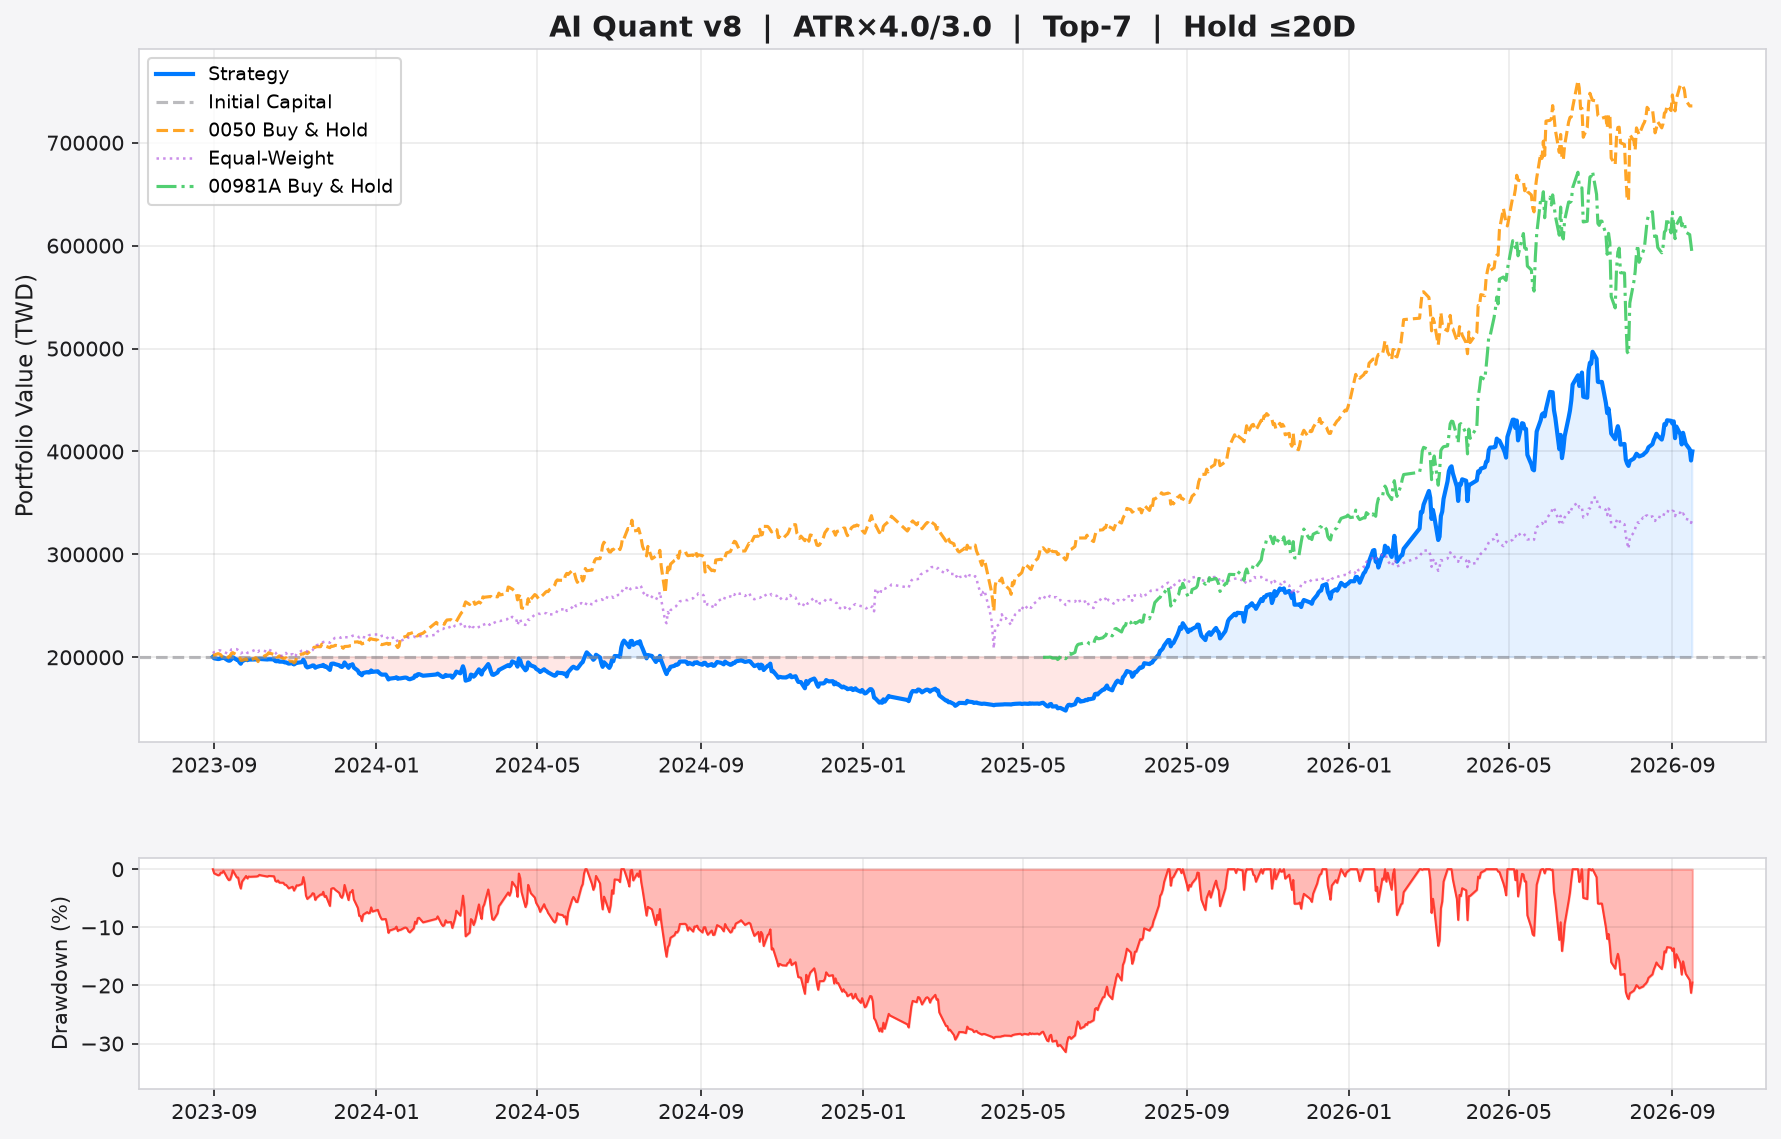
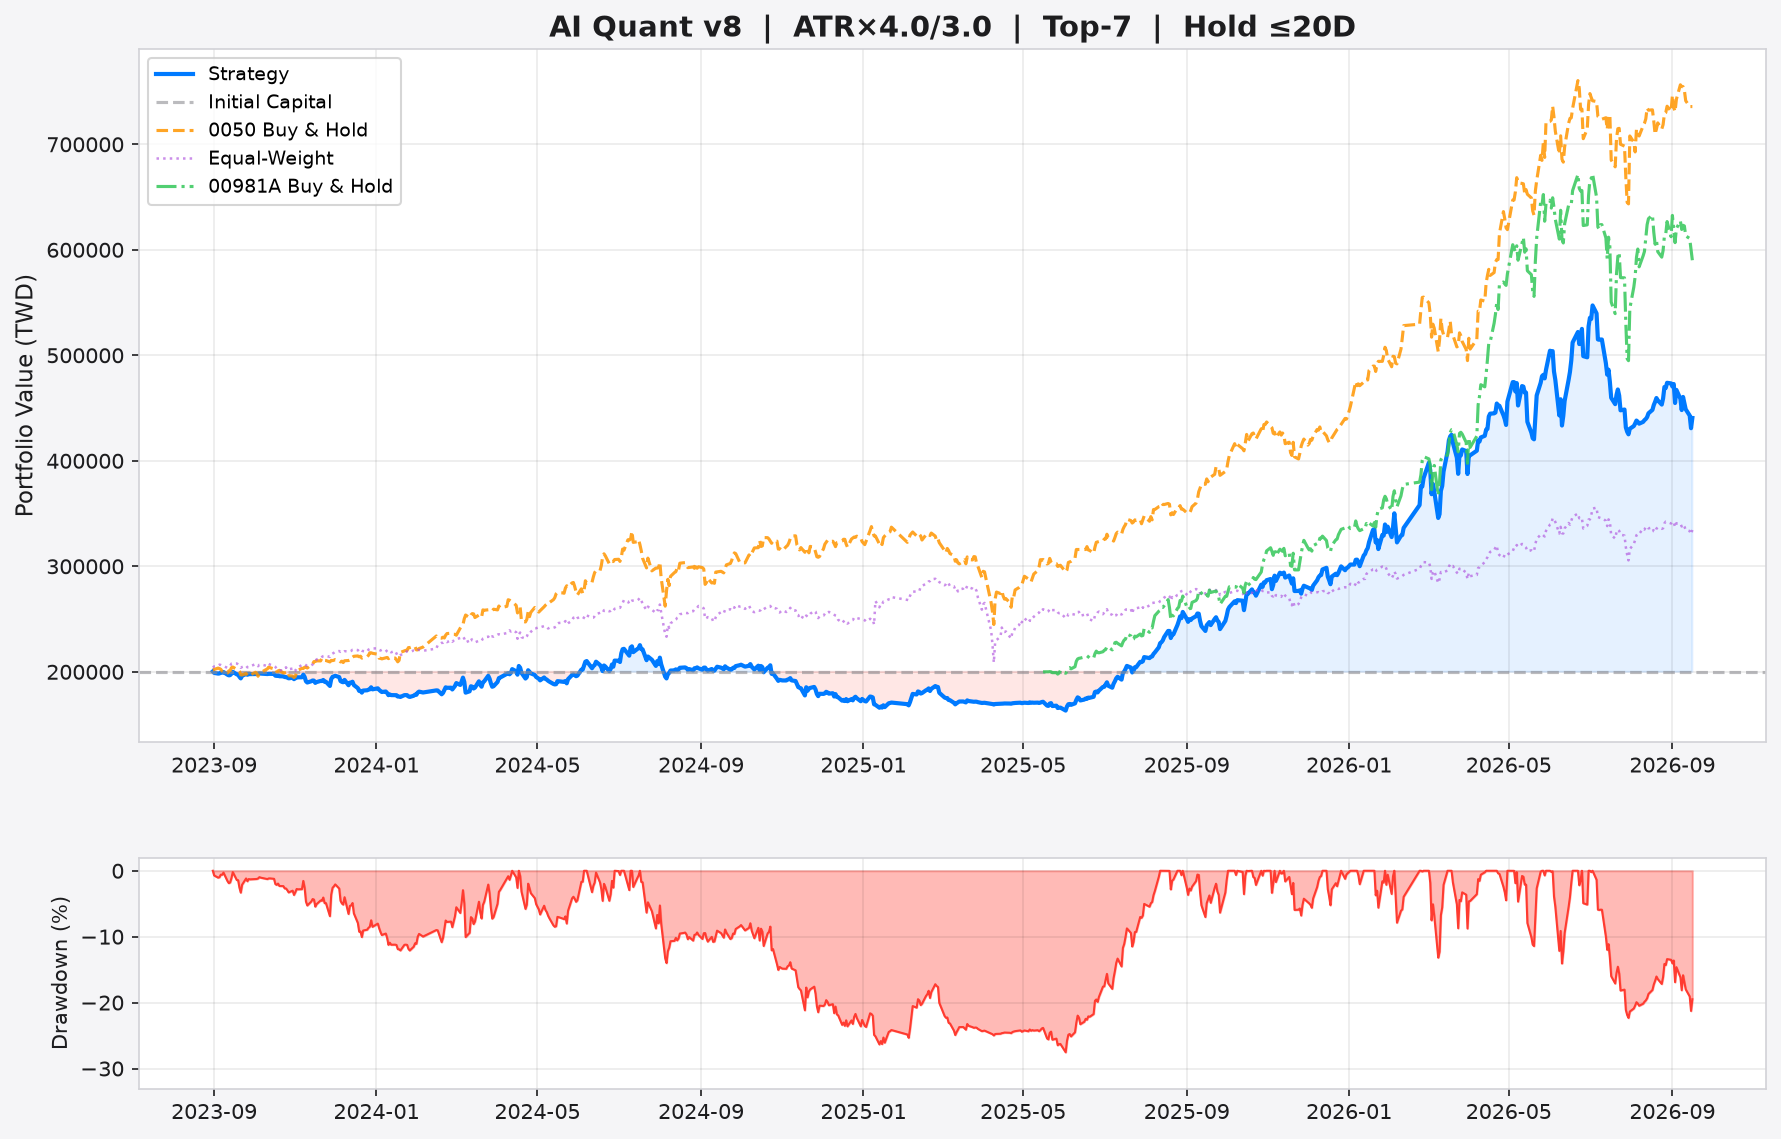
📊 AI Report v8.5 + Paper Trading (2026-09-16)

diff --git a/stock_report.html b/stock_report.html
@@ -303,47 +303,47 @@
     <div class="stats">
         <div class="stat-card">
             <div class="label">策略總報酬率</div>
-            <div class="value" style="color:#00ff00;">+100.0%</div>
+            <div class="value" style="color:#00ff00;">+120.3%</div>
         </div>
         <div class="stat-card">
             <div class="label">年化報酬率</div>
-            <div class="value" style="color:#00ff00;">+26.6%</div>
+            <div class="value" style="color:#00ff00;">+30.9%</div>
         </div>
         <div class="stat-card">
             <div class="label">年化波動率</div>
-            <div class="value">27.6%</div>
+            <div class="value">27.7%</div>
         </div>
         <div class="stat-card risk">
             <div class="label">Sharpe Ratio</div>
-            <div class="value" style="color:#00ff00;">0.99</div>
+            <div class="value" style="color:#00ff00;">1.11</div>
         </div>
         <div class="stat-card risk">
             <div class="label">Sortino Ratio</div>
-            <div class="value">1.34</div>
+            <div class="value">1.53</div>
         </div>
         <div class="stat-card risk">
             <div class="label">最大回撤</div>
-            <div class="value" style="color:#ff4444;">-31.4%</div>
+            <div class="value" style="color:#ff4444;">-27.5%</div>
         </div>
         <div class="stat-card risk">
             <div class="label">Calmar Ratio</div>
-            <div class="value">0.85</div>
+            <div class="value">1.12</div>
         </div>
         <div class="stat-card">
             <div class="label">完成交易數</div>
-            <div class="value">452</div>
+            <div class="value">453</div>
         </div>
         <div class="stat-card">
             <div class="label">勝率</div>
-            <div class="value" style="color:#00ff00;">50.0%</div>
+            <div class="value" style="color:#00ff00;">51.0%</div>
         </div>
         <div class="stat-card">
             <div class="label">Profit Factor</div>
-            <div class="value">1.28</div>
+            <div class="value">1.34</div>
         </div>
         <div class="stat-card">
             <div class="label">平均報酬/筆</div>
-            <div class="value">+1.72%</div>
+            <div class="value">+2.07%</div>
         </div>
         <div class="stat-card">
             <div class="label">平均持有天數</div>
@@ -473,7 +473,7 @@
         </div>
         <div class="stat-card" style="border-left-color:#ff4444">
             <div class="label">超額年化報酬 (α)</div>
-            <div class="value" style="color:#ff4444">-24.1%</div>
+            <div class="value" style="color:#ff4444">-19.9%</div>
         </div>
     </div>
 
@@ -533,21 +533,21 @@
         </div>
         <div class="stat-card">
             <div class="label">權益最高點</div>
-            <div class="value">496,903</div>
+            <div class="value">547,281</div>
         </div>
         <div class="stat-card">
             <div class="label">歷史回撤次數</div>
-            <div class="value">29</div>
+            <div class="value">32</div>
         </div>
     </div>
     <table>
         <thead><tr><th>#</th><th>開始日</th><th>恢復日</th><th>最大深度</th><th>持續天數</th></tr></thead>
         <tbody>
-<tr><td>#1</td><td>2024-07-18</td><td>2025-08-18</td><td style="color:#ff4444; font-weight:bold">-31.4%</td><td>396 天</td></tr>
+<tr><td>#1</td><td>2024-07-18</td><td>2025-08-12</td><td style="color:#ff4444; font-weight:bold">-27.5%</td><td>390 天</td></tr>
 <tr><td>#2</td><td>2026-07-06</td><td>2026-09-16</td><td style="color:#ff4444; font-weight:bold">-22.3%</td><td>72 天</td></tr>
 <tr><td>#3</td><td>2026-06-04</td><td>2026-06-18</td><td style="color:#ff4444; font-weight:bold">-14.1%</td><td>14 天</td></tr>
 <tr><td>#4</td><td>2026-03-03</td><td>2026-03-16</td><td style="color:#ff4444; font-weight:bold">-13.2%</td><td>13 天</td></tr>
-<tr><td>#5</td><td>2023-09-18</td><td>2024-06-06</td><td style="color:#ff4444; font-weight:bold">-11.5%</td><td>262 天</td></tr>
+<tr><td>#5</td><td>2023-09-18</td><td>2024-04-12</td><td style="color:#ff4444; font-weight:bold">-12.1%</td><td>207 天</td></tr>
 
         </tbody>
     </table>
@@ -562,11 +562,11 @@
         </div>
         <div class="stat-card">
             <div class="label">歷史平均 Sharpe</div>
-            <div class="value">0.92</div>
+            <div class="value">1.09</div>
         </div>
         <div class="stat-card risk">
             <div class="label">歷史最低 Sharpe</div>
-            <div class="value">-3.79</div>
+            <div class="value">-4.04</div>
         </div>
         <div class="stat-card">
             <div class="label">歷史最高 Sharpe</div>
@@ -596,9 +596,9 @@
     <table>
         <thead><tr><th>出場原因</th><th>次數</th><th>平均報酬</th></tr></thead>
         <tbody>
-<tr><td>⚪ 時間到期</td><td>173 筆</td><td style="color:#ff4444">-1.09%</td></tr>
-<tr><td>🟢 停利</td><td>153 筆</td><td style="color:#00ff00">+20.20%</td></tr>
-<tr><td>🔴 停損</td><td>126 筆</td><td style="color:#ff4444">-16.88%</td></tr>
+<tr><td>⚪ 時間到期</td><td>171 筆</td><td style="color:#ff4444">-1.40%</td></tr>
+<tr><td>🟢 停利</td><td>160 筆</td><td style="color:#00ff00">+20.33%</td></tr>
+<tr><td>🔴 停損</td><td>122 筆</td><td style="color:#ff4444">-17.00%</td></tr>
 
         </tbody>
     </table>
@@ -608,14 +608,14 @@
 
     <table>
         <thead><tr><th>報酬區間</th><th>筆數</th><th>佔比</th><th>分布</th></tr></thead>
-        <tbody><tr><td>< -15%</td><td>87</td><td>19.2%</td><td><div style="background:#ff4444; width:57.743362831858406%; height:14px; border-radius:3px; opacity:0.6"></div></td></tr>
-<tr><td>-15~-10%</td><td>59</td><td>13.1%</td><td><div style="background:#ff4444; width:39.15929203539824%; height:14px; border-radius:3px; opacity:0.6"></div></td></tr>
-<tr><td>-10~-5%</td><td>36</td><td>8.0%</td><td><div style="background:#ff4444; width:23.893805309734514%; height:14px; border-radius:3px; opacity:0.6"></div></td></tr>
-<tr><td>-5~0%</td><td>44</td><td>9.7%</td><td><div style="background:#ff4444; width:29.20353982300885%; height:14px; border-radius:3px; opacity:0.6"></div></td></tr>
-<tr><td>0~5%</td><td>30</td><td>6.6%</td><td><div style="background:#00ff00; width:19.911504424778762%; height:14px; border-radius:3px; opacity:0.6"></div></td></tr>
-<tr><td>5~10%</td><td>29</td><td>6.4%</td><td><div style="background:#00ff00; width:19.24778761061947%; height:14px; border-radius:3px; opacity:0.6"></div></td></tr>
-<tr><td>10~20%</td><td>92</td><td>20.4%</td><td><div style="background:#00ff00; width:61.061946902654874%; height:14px; border-radius:3px; opacity:0.6"></div></td></tr>
-<tr><td>> 20%</td><td>75</td><td>16.6%</td><td><div style="background:#00ff00; width:49.7787610619469%; height:14px; border-radius:3px; opacity:0.6"></div></td></tr>
+        <tbody><tr><td>< -15%</td><td>87</td><td>19.2%</td><td><div style="background:#ff4444; width:57.6158940397351%; height:14px; border-radius:3px; opacity:0.6"></div></td></tr>
+<tr><td>-15~-10%</td><td>57</td><td>12.6%</td><td><div style="background:#ff4444; width:37.748344370860934%; height:14px; border-radius:3px; opacity:0.6"></div></td></tr>
+<tr><td>-10~-5%</td><td>36</td><td>7.9%</td><td><div style="background:#ff4444; width:23.841059602649008%; height:14px; border-radius:3px; opacity:0.6"></div></td></tr>
+<tr><td>-5~0%</td><td>42</td><td>9.3%</td><td><div style="background:#ff4444; width:27.81456953642384%; height:14px; border-radius:3px; opacity:0.6"></div></td></tr>
+<tr><td>0~5%</td><td>32</td><td>7.1%</td><td><div style="background:#00ff00; width:21.19205298013245%; height:14px; border-radius:3px; opacity:0.6"></div></td></tr>
+<tr><td>5~10%</td><td>25</td><td>5.5%</td><td><div style="background:#00ff00; width:16.556291390728475%; height:14px; border-radius:3px; opacity:0.6"></div></td></tr>
+<tr><td>10~20%</td><td>95</td><td>21.0%</td><td><div style="background:#00ff00; width:62.913907284768214%; height:14px; border-radius:3px; opacity:0.6"></div></td></tr>
+<tr><td>> 20%</td><td>79</td><td>17.4%</td><td><div style="background:#00ff00; width:52.317880794701985%; height:14px; border-radius:3px; opacity:0.6"></div></td></tr>
 </tbody>
     </table>
 
@@ -625,13 +625,13 @@
     <h3 style="color:#00e5ff; margin-top:16px">🏆 Top 10 貢獻股</h3>
     <table>
         <thead><tr><th>股票</th><th>交易數</th><th>勝率</th><th>平均報酬</th><th>總貢獻</th></tr></thead>
-        <tbody><tr><td><b>2344</b></td><td>9</td><td style="color:#00ff00">78%</td><td style="color:#00ff00">+11.7%</td><td style="color:#00ff00; font-weight:bold">+105.6%</td></tr>
+        <tbody><tr><td><b>2344</b></td><td>9</td><td style="color:#00ff00">78%</td><td style="color:#00ff00">+11.9%</td><td style="color:#00ff00; font-weight:bold">+107.3%</td></tr>
+<tr><td><b>3017</b></td><td>7</td><td style="color:#00ff00">86%</td><td style="color:#00ff00">+12.3%</td><td style="color:#00ff00; font-weight:bold">+86.0%</td></tr>
 <tr><td><b>2408</b></td><td>8</td><td style="color:#00ff00">62%</td><td style="color:#00ff00">+10.0%</td><td style="color:#00ff00; font-weight:bold">+80.1%</td></tr>
-<tr><td><b>2367</b></td><td>3</td><td style="color:#00ff00">100%</td><td style="color:#00ff00">+26.1%</td><td style="color:#00ff00; font-weight:bold">+78.2%</td></tr>
-<tr><td><b>3017</b></td><td>6</td><td style="color:#00ff00">83%</td><td style="color:#00ff00">+12.0%</td><td style="color:#00ff00; font-weight:bold">+72.3%</td></tr>
+<tr><td><b>2367</b></td><td>4</td><td style="color:#00ff00">75%</td><td style="color:#00ff00">+18.1%</td><td style="color:#00ff00; font-weight:bold">+72.5%</td></tr>
+<tr><td><b>3665</b></td><td>10</td><td style="color:#00ff00">70%</td><td style="color:#00ff00">+7.2%</td><td style="color:#00ff00; font-weight:bold">+72.5%</td></tr>
 <tr><td><b>2337</b></td><td>6</td><td style="color:#00ff00">67%</td><td style="color:#00ff00">+11.0%</td><td style="color:#00ff00; font-weight:bold">+66.3%</td></tr>
 <tr><td><b>8021</b></td><td>5</td><td style="color:#00ff00">80%</td><td style="color:#00ff00">+11.8%</td><td style="color:#00ff00; font-weight:bold">+59.2%</td></tr>
-<tr><td><b>3665</b></td><td>8</td><td style="color:#00ff00">75%</td><td style="color:#00ff00">+7.1%</td><td style="color:#00ff00; font-weight:bold">+57.1%</td></tr>
 <tr><td><b>3037</b></td><td>5</td><td style="color:#00ff00">80%</td><td style="color:#00ff00">+11.0%</td><td style="color:#00ff00; font-weight:bold">+54.8%</td></tr>
 <tr><td><b>6515</b></td><td>4</td><td style="color:#00ff00">75%</td><td style="color:#00ff00">+13.4%</td><td style="color:#00ff00; font-weight:bold">+53.6%</td></tr>
 <tr><td><b>5269</b></td><td>5</td><td style="color:#00ff00">100%</td><td style="color:#00ff00">+9.7%</td><td style="color:#00ff00; font-weight:bold">+48.4%</td></tr>
@@ -640,10 +640,10 @@
     <h3 style="color:#ff4444; margin-top:16px">📉 Bottom 5 虧損股</h3>
     <table>
         <thead><tr><th>股票</th><th>交易數</th><th>勝率</th><th>平均報酬</th><th>總貢獻</th></tr></thead>
-        <tbody><tr style="opacity:0.7"><td><b>6781</b></td><td>2</td><td style="color:#ff4444">0%</td><td style="color:#ff4444">-16.5%</td><td style="color:#ff4444; font-weight:bold">-33.0%</td></tr>
-<tr style="opacity:0.7"><td><b>2609</b></td><td>5</td><td style="color:#ff4444">20%</td><td style="color:#ff4444">-7.3%</td><td style="color:#ff4444; font-weight:bold">-36.4%</td></tr>
+        <tbody><tr style="opacity:0.7"><td><b>1514</b></td><td>5</td><td style="color:#ff4444">20%</td><td style="color:#ff4444">-5.5%</td><td style="color:#ff4444; font-weight:bold">-27.5%</td></tr>
+<tr style="opacity:0.7"><td><b>3013</b></td><td>4</td><td style="color:#ff4444">25%</td><td style="color:#ff4444">-8.2%</td><td style="color:#ff4444; font-weight:bold">-32.8%</td></tr>
+<tr style="opacity:0.7"><td><b>2609</b></td><td>5</td><td style="color:#ff4444">20%</td><td style="color:#ff4444">-7.0%</td><td style="color:#ff4444; font-weight:bold">-35.2%</td></tr>
 <tr style="opacity:0.7"><td><b>6206</b></td><td>2</td><td style="color:#ff4444">0%</td><td style="color:#ff4444">-19.6%</td><td style="color:#ff4444; font-weight:bold">-39.3%</td></tr>
-<tr style="opacity:0.7"><td><b>3376</b></td><td>5</td><td style="color:#ff4444">20%</td><td style="color:#ff4444">-8.7%</td><td style="color:#ff4444; font-weight:bold">-43.4%</td></tr>
 <tr style="opacity:0.7"><td><b>8261</b></td><td>2</td><td style="color:#ff4444">0%</td><td style="color:#ff4444">-30.4%</td><td style="color:#ff4444; font-weight:bold">-60.8%</td></tr>
 </tbody>
     </table>
@@ -689,23 +689,23 @@
         <tbody>
 <tr style="background:rgba(255,68,68,0.04)"><td>2023-09</td><td style="color:#ff4444; font-weight:bold">-1.3%</td></tr>
 <tr style="background:rgba(255,68,68,0.07)"><td>2023-10</td><td style="color:#ff4444; font-weight:bold">-2.4%</td></tr>
-<tr style="background:rgba(0,255,0,0.01)"><td>2023-11</td><td style="color:#00ff00; font-weight:bold">+0.4%</td></tr>
-<tr style="background:rgba(255,68,68,0.12)"><td>2023-12</td><td style="color:#ff4444; font-weight:bold">-4.1%</td></tr>
-<tr style="background:rgba(255,68,68,0.07)"><td>2024-01</td><td style="color:#ff4444; font-weight:bold">-2.2%</td></tr>
-<tr style="background:rgba(0,255,0,0.03)"><td>2024-02</td><td style="color:#00ff00; font-weight:bold">+1.0%</td></tr>
-<tr style="background:rgba(255,68,68,0.01)"><td>2024-03</td><td style="color:#ff4444; font-weight:bold">-0.2%</td></tr>
-<tr style="background:rgba(0,255,0,0.10)"><td>2024-04</td><td style="color:#00ff00; font-weight:bold">+3.2%</td></tr>
-<tr style="background:rgba(0,255,0,0.00)"><td>2024-05</td><td style="color:#00ff00; font-weight:bold">+0.2%</td></tr>
-<tr style="background:rgba(0,255,0,0.19)"><td>2024-06</td><td style="color:#00ff00; font-weight:bold">+6.4%</td></tr>
-<tr style="background:rgba(255,68,68,0.06)"><td>2024-07</td><td style="color:#ff4444; font-weight:bold">-1.9%</td></tr>
-<tr style="background:rgba(255,68,68,0.05)"><td>2024-08</td><td style="color:#ff4444; font-weight:bold">-1.7%</td></tr>
+<tr style="background:rgba(0,255,0,0.04)"><td>2023-11</td><td style="color:#00ff00; font-weight:bold">+1.4%</td></tr>
+<tr style="background:rgba(255,68,68,0.19)"><td>2023-12</td><td style="color:#ff4444; font-weight:bold">-6.3%</td></tr>
+<tr style="background:rgba(255,68,68,0.08)"><td>2024-01</td><td style="color:#ff4444; font-weight:bold">-2.8%</td></tr>
+<tr style="background:rgba(0,255,0,0.14)"><td>2024-02</td><td style="color:#00ff00; font-weight:bold">+4.7%</td></tr>
+<tr style="background:rgba(255,68,68,0.00)"><td>2024-03</td><td style="color:#ff4444; font-weight:bold">-0.1%</td></tr>
+<tr style="background:rgba(0,255,0,0.14)"><td>2024-04</td><td style="color:#00ff00; font-weight:bold">+4.7%</td></tr>
+<tr style="background:rgba(0,255,0,0.02)"><td>2024-05</td><td style="color:#00ff00; font-weight:bold">+0.6%</td></tr>
+<tr style="background:rgba(0,255,0,0.22)"><td>2024-06</td><td style="color:#00ff00; font-weight:bold">+7.3%</td></tr>
+<tr style="background:rgba(255,68,68,0.05)"><td>2024-07</td><td style="color:#ff4444; font-weight:bold">-1.6%</td></tr>
+<tr style="background:rgba(255,68,68,0.06)"><td>2024-08</td><td style="color:#ff4444; font-weight:bold">-1.9%</td></tr>
 <tr style="background:rgba(0,255,0,0.04)"><td>2024-09</td><td style="color:#00ff00; font-weight:bold">+1.4%</td></tr>
-<tr style="background:rgba(255,68,68,0.24)"><td>2024-10</td><td style="color:#ff4444; font-weight:bold">-8.0%</td></tr>
-<tr style="background:rgba(255,68,68,0.11)"><td>2024-11</td><td style="color:#ff4444; font-weight:bold">-3.6%</td></tr>
-<tr style="background:rgba(255,68,68,0.11)"><td>2024-12</td><td style="color:#ff4444; font-weight:bold">-3.6%</td></tr>
-<tr style="background:rgba(255,68,68,0.12)"><td>2025-01</td><td style="color:#ff4444; font-weight:bold">-4.0%</td></tr>
-<tr style="background:rgba(0,255,0,0.03)"><td>2025-02</td><td style="color:#00ff00; font-weight:bold">+0.9%</td></tr>
-<tr style="background:rgba(255,68,68,0.15)"><td>2025-03</td><td style="color:#ff4444; font-weight:bold">-5.1%</td></tr>
+<tr style="background:rgba(255,68,68,0.20)"><td>2024-10</td><td style="color:#ff4444; font-weight:bold">-6.7%</td></tr>
+<tr style="background:rgba(255,68,68,0.21)"><td>2024-11</td><td style="color:#ff4444; font-weight:bold">-6.9%</td></tr>
+<tr style="background:rgba(255,68,68,0.08)"><td>2024-12</td><td style="color:#ff4444; font-weight:bold">-2.7%</td></tr>
+<tr style="background:rgba(255,68,68,0.06)"><td>2025-01</td><td style="color:#ff4444; font-weight:bold">-2.0%</td></tr>
+<tr style="background:rgba(0,255,0,0.16)"><td>2025-02</td><td style="color:#00ff00; font-weight:bold">+5.4%</td></tr>
+<tr style="background:rgba(255,68,68,0.16)"><td>2025-03</td><td style="color:#ff4444; font-weight:bold">-5.4%</td></tr>
 <tr style="background:rgba(255,68,68,0.00)"><td>2025-04</td><td style="color:#ff4444; font-weight:bold">-0.1%</td></tr>
 <tr style="background:rgba(255,68,68,0.07)"><td>2025-05</td><td style="color:#ff4444; font-weight:bold">-2.5%</td></tr>
 <tr style="background:rgba(0,255,0,0.30)"><td>2025-06</td><td style="color:#00ff00; font-weight:bold">+11.8%</td></tr>
